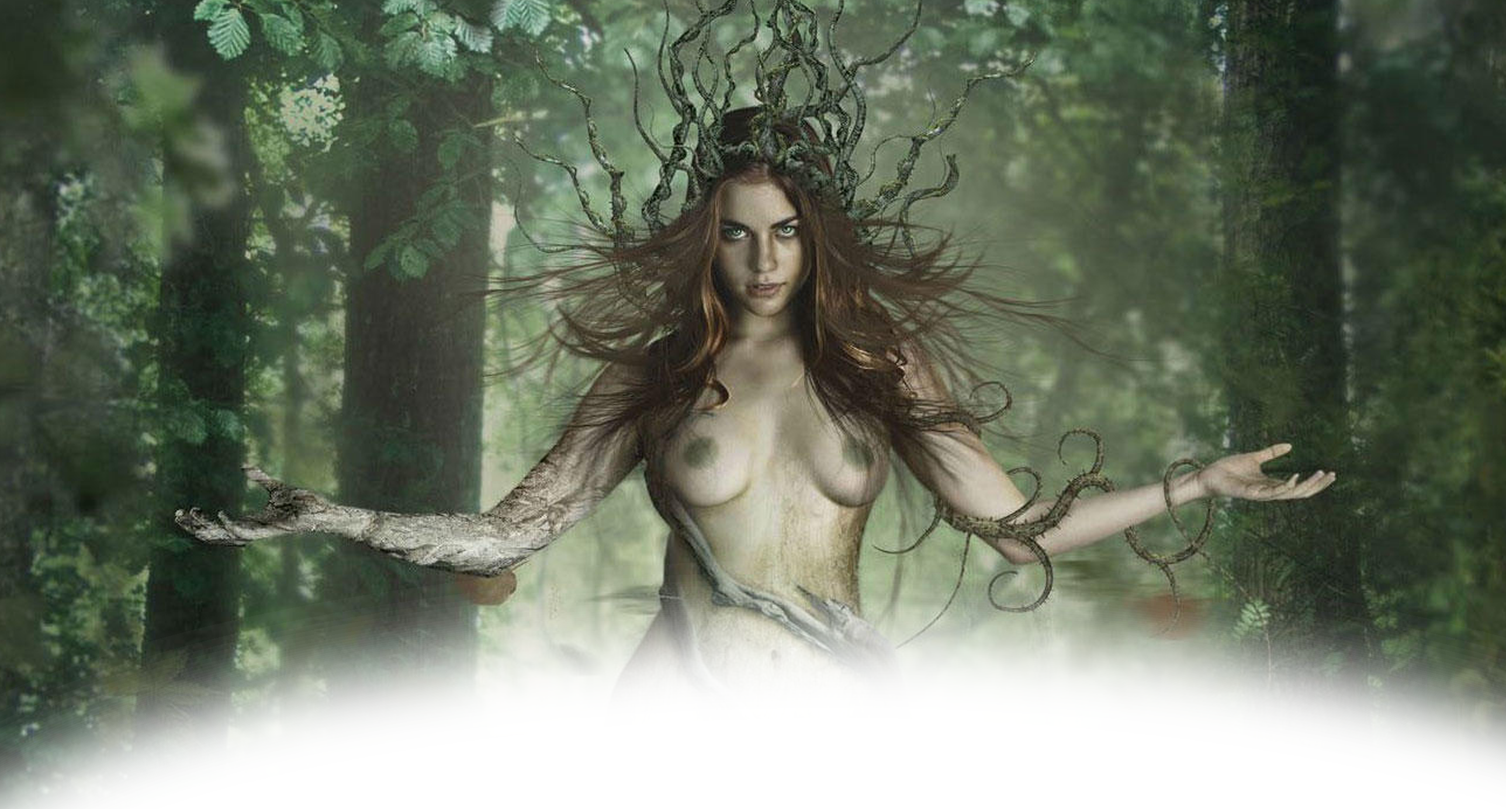
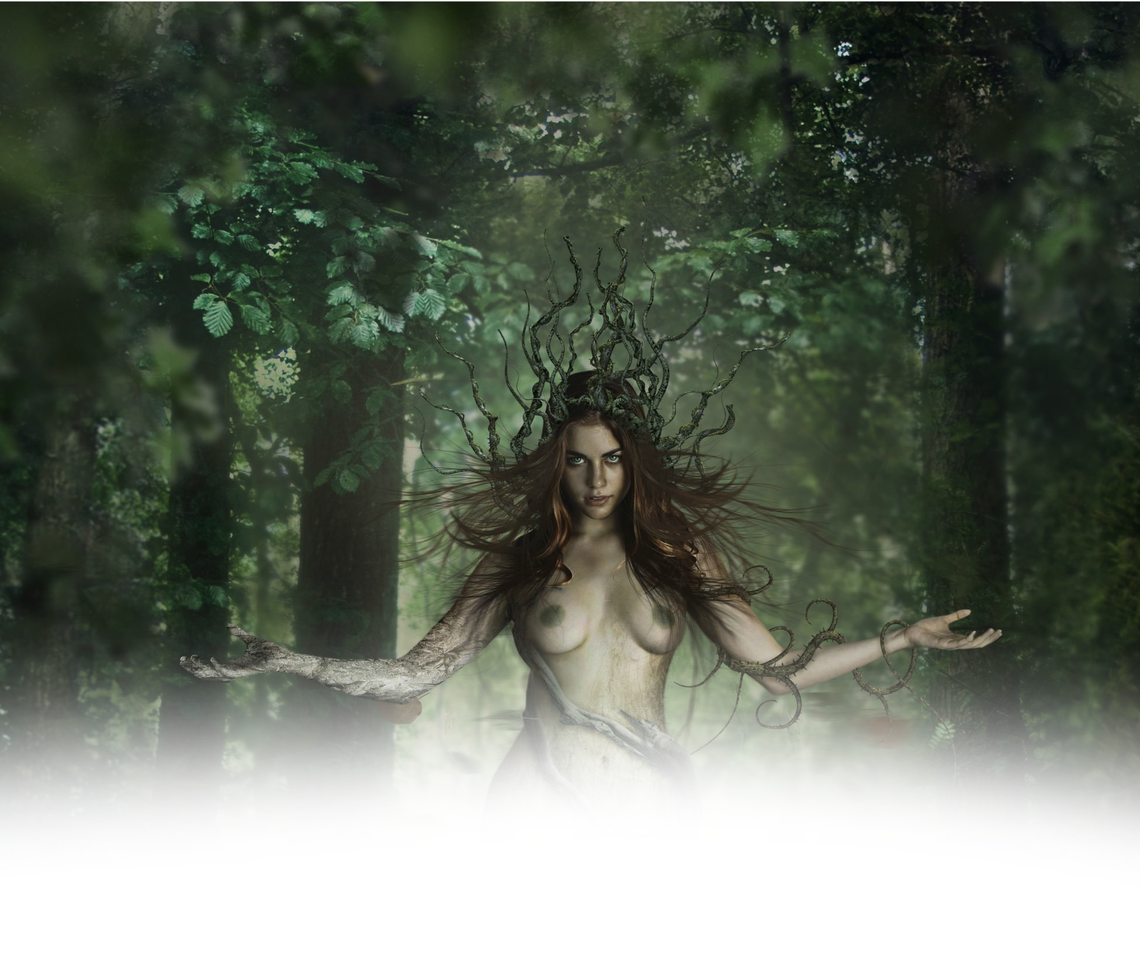
test

diff --git a/index.html b/index.html
@@ -68,7 +68,7 @@
 </div>
 <!--Start Container-->
 
-<div class="jumbotron" style="background-color:black; background-image:url(bg.png); background-size:cover; background-position:top;  height:100vh;">
+<div class="jumbotron" style="background-color:black; background-image:url(bg.png); background-size:cover; background-position-y:-25rem;  background-repeat:no-repeat;  height:100vh;">
   <div id="showWhenSmall">
     When screen is small, this shows instead. It's a placeholder! Zoom out or open in desktop!
   </div>
